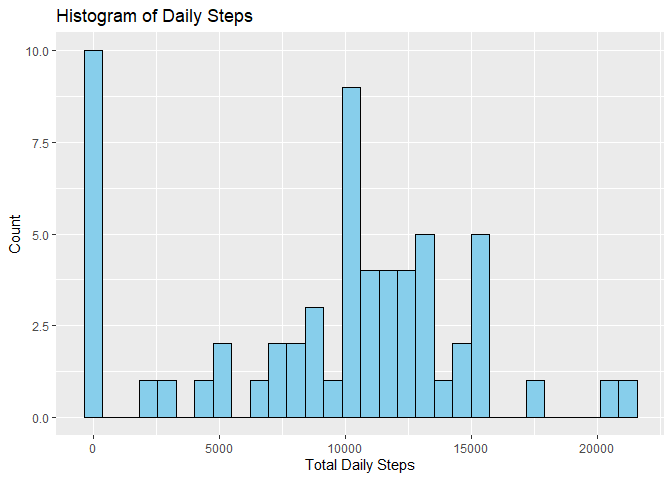
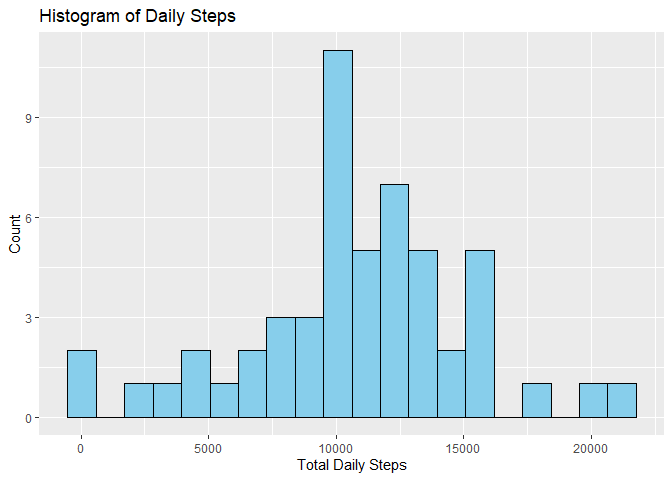
Updating code fixes

diff --git a/PA1_template.html b/PA1_template.html
@@ -369,6 +369,7 @@ df$date &lt;- as.Date(df$date)</code></pre>
 <h2>What is mean total number of steps taken per day?</h2>
 <p>Aggregating data to daily frequency and printing summary.</p>
 <pre class="r"><code>df_daily &lt;- df %&gt;% 
+    filter(!is.na(steps)) %&gt;% 
     group_by(date) %&gt;% 
     summarise(total_steps = sum(steps, na.rm = TRUE))
 
@@ -377,17 +378,17 @@ df_daily_summary &lt;- df_daily %&gt;%
               median_total = median(total_steps, na.rm = TRUE))
 
 print(paste(&quot;mean total number of steps taken per day:&quot;, round(df_daily_summary[[1]], 0)))</code></pre>
-<pre><code>## [1] &quot;mean total number of steps taken per day: 9354&quot;</code></pre>
+<pre><code>## [1] &quot;mean total number of steps taken per day: 10766&quot;</code></pre>
 <pre class="r"><code>print(paste(&quot;median total number of steps taken per day:&quot;, round(df_daily_summary[[2]], 0)))</code></pre>
-<pre><code>## [1] &quot;median total number of steps taken per day: 10395&quot;</code></pre>
+<pre><code>## [1] &quot;median total number of steps taken per day: 10765&quot;</code></pre>
 <p>Histogram of Daily Steps</p>
 <pre class="r"><code>g &lt;- ggplot(df_daily, aes(x = total_steps)) +
-    geom_histogram(bins = 30, fill = &quot;skyblue&quot;, color = &quot;black&quot;) +
+    geom_histogram(bins = 20, fill = &quot;skyblue&quot;, color = &quot;black&quot;) +
     labs(title = &quot;Histogram of Daily Steps&quot;,
          x = &quot;Total Daily Steps&quot;,
          y = &quot;Count&quot;)
 print(g)</code></pre>
[2 lines of base64/hex data omitted]
 </div>
 <div id="what-is-the-average-daily-activity-pattern" class="section level2">
 <h2>What is the average daily activity pattern?</h2>
@@ -416,11 +417,16 @@ print(paste(&quot;interval which has max average steps:&quot;, interval_max))</c
 </div>
 <div id="imputing-missing-values" class="section level2">
 <h2>Imputing missing values</h2>
-<p>Calculating the number of NA rows.</p>
-<p>The result after imputing missing steps shows a histogram that is
-more normally distributed. It also reduces the days with zero steps and
-more accurately shows true zero step days. The mean and median also
-becomes the same as it was previously more skewered towards zero.</p>
+<div id="strategy-for-imputing-nas" class="section level4">
+<h4>Strategy for imputing NAs</h4>
+<ul>
+<li>I’m going to impute NAs by using the 5-min interval averages derived
+above. The 5-min interval will help retain the shape of the activities
+throughout the day.</li>
+<li>The process will use the 5-min interval averages if NA is present,
+otherwise the original steps will be used in a newly derived column
+called steps_filled.</li>
+</ul>
 <pre class="r"><code>missing_values &lt;- df %&gt;% 
     filter(is.na(steps)) %&gt;% 
     nrow()
@@ -434,14 +440,17 @@ print(paste(&quot;number of missing values:&quot;, missing_values))</code></pre>
 df_daily_imputed &lt;- df_imputed %&gt;% 
     group_by(date) %&gt;% 
     summarise(total_steps = sum(steps_filled, na.rm = TRUE))</code></pre>
-<p>Histogram after imputation.</p>
+<p>Histogram after imputation. Compared to the original histogram
+without imputation of NAs, the histogram below shows more counts in the
+mean/median step range. This is as expected as the NAs were imputed
+using the 5-min interval averages.</p>
 <pre class="r"><code>g3 &lt;- ggplot(df_daily_imputed, aes(x = total_steps)) +
-    geom_histogram(bins = 30, fill = &quot;skyblue&quot;, color = &quot;black&quot;) +
+    geom_histogram(bins = 20, fill = &quot;skyblue&quot;, color = &quot;black&quot;) +
     labs(title = &quot;Histogram of Daily Imputed Steps&quot;,
          x = &quot;Total Daily Imputed Steps&quot;,
          y = &quot;Count&quot;)
 print(g3)</code></pre>
[2 lines of base64/hex data omitted]
 <p>Summary of mean and median after imputation.</p>
 <pre class="r"><code>df_daily_imputed_summary &lt;- df_daily_imputed %&gt;% 
     summarise(mean_total = mean(total_steps, na.rm = TRUE),
@@ -451,6 +460,7 @@ print(paste(&quot;Summary of mean imputation:&quot;, round(df_daily_imputed_summ
 <pre><code>## [1] &quot;Summary of mean imputation: 10766&quot;</code></pre>
 <pre class="r"><code>print(paste(&quot;Summary of median imputation:&quot;, round(df_daily_imputed_summary[[2]], 0)))</code></pre>
 <pre><code>## [1] &quot;Summary of median imputation: 10766&quot;</code></pre>
+</div>
 </div>
 <div id="are-there-differences-in-activity-patterns-between-weekdays-and-weekends" class="section level2">
 <h2>Are there differences in activity patterns between weekdays and

diff --git a/PA1_template.md b/PA1_template.md
@@ -27,6 +27,7 @@ Aggregating data to daily frequency and printing summary.
 
 ``` r
 df_daily <- df %>% 
+    filter(!is.na(steps)) %>% 
     group_by(date) %>% 
     summarise(total_steps = sum(steps, na.rm = TRUE))
 
@@ -38,7 +39,7 @@ print(paste("mean total number of steps taken per day:", round(df_daily_summary[
 ```
 
 ```
-## [1] "mean total number of steps taken per day: 9354"
+## [1] "mean total number of steps taken per day: 10766"
 ```
 
 ``` r
@@ -46,14 +47,14 @@ print(paste("median total number of steps taken per day:", round(df_daily_summar
 ```
 
 ```
-## [1] "median total number of steps taken per day: 10395"
+## [1] "median total number of steps taken per day: 10765"
 ```
 
 Histogram of Daily Steps
 
 ``` r
 g <- ggplot(df_daily, aes(x = total_steps)) +
-    geom_histogram(bins = 30, fill = "skyblue", color = "black") +
+    geom_histogram(bins = 20, fill = "skyblue", color = "black") +
     labs(title = "Histogram of Daily Steps",
          x = "Total Daily Steps",
          y = "Count")
@@ -98,13 +99,10 @@ print(paste("interval which has max average steps:", interval_max))
 ```
 
 ## Imputing missing values
-Calculating the number of NA rows.
 
-The result after imputing missing steps shows a histogram that is
-more normally distributed. It also reduces the days with zero steps
-and more accurately shows true zero step days.
-The mean and median also becomes the same as it was previously more
-skewered towards zero.
+#### Strategy for imputing NAs
+- I'm going to impute NAs by using the 5-min interval averages derived above. The 5-min interval will help retain the shape of the activities throughout the day.
+- The process will use the 5-min interval averages if NA is present, otherwise the original steps will be used in a newly derived column called steps_filled.
 
 
 ``` r
@@ -130,10 +128,12 @@ df_daily_imputed <- df_imputed %>%
 ```
 
 Histogram after imputation.
+Compared to the original histogram without imputation of NAs, the histogram below shows more counts in the mean/median step range. This is as expected as the NAs were imputed using the 5-min interval averages.
+
 
 ``` r
 g3 <- ggplot(df_daily_imputed, aes(x = total_steps)) +
-    geom_histogram(bins = 30, fill = "skyblue", color = "black") +
+    geom_histogram(bins = 20, fill = "skyblue", color = "black") +
     labs(title = "Histogram of Daily Imputed Steps",
          x = "Total Daily Imputed Steps",
          y = "Count")
